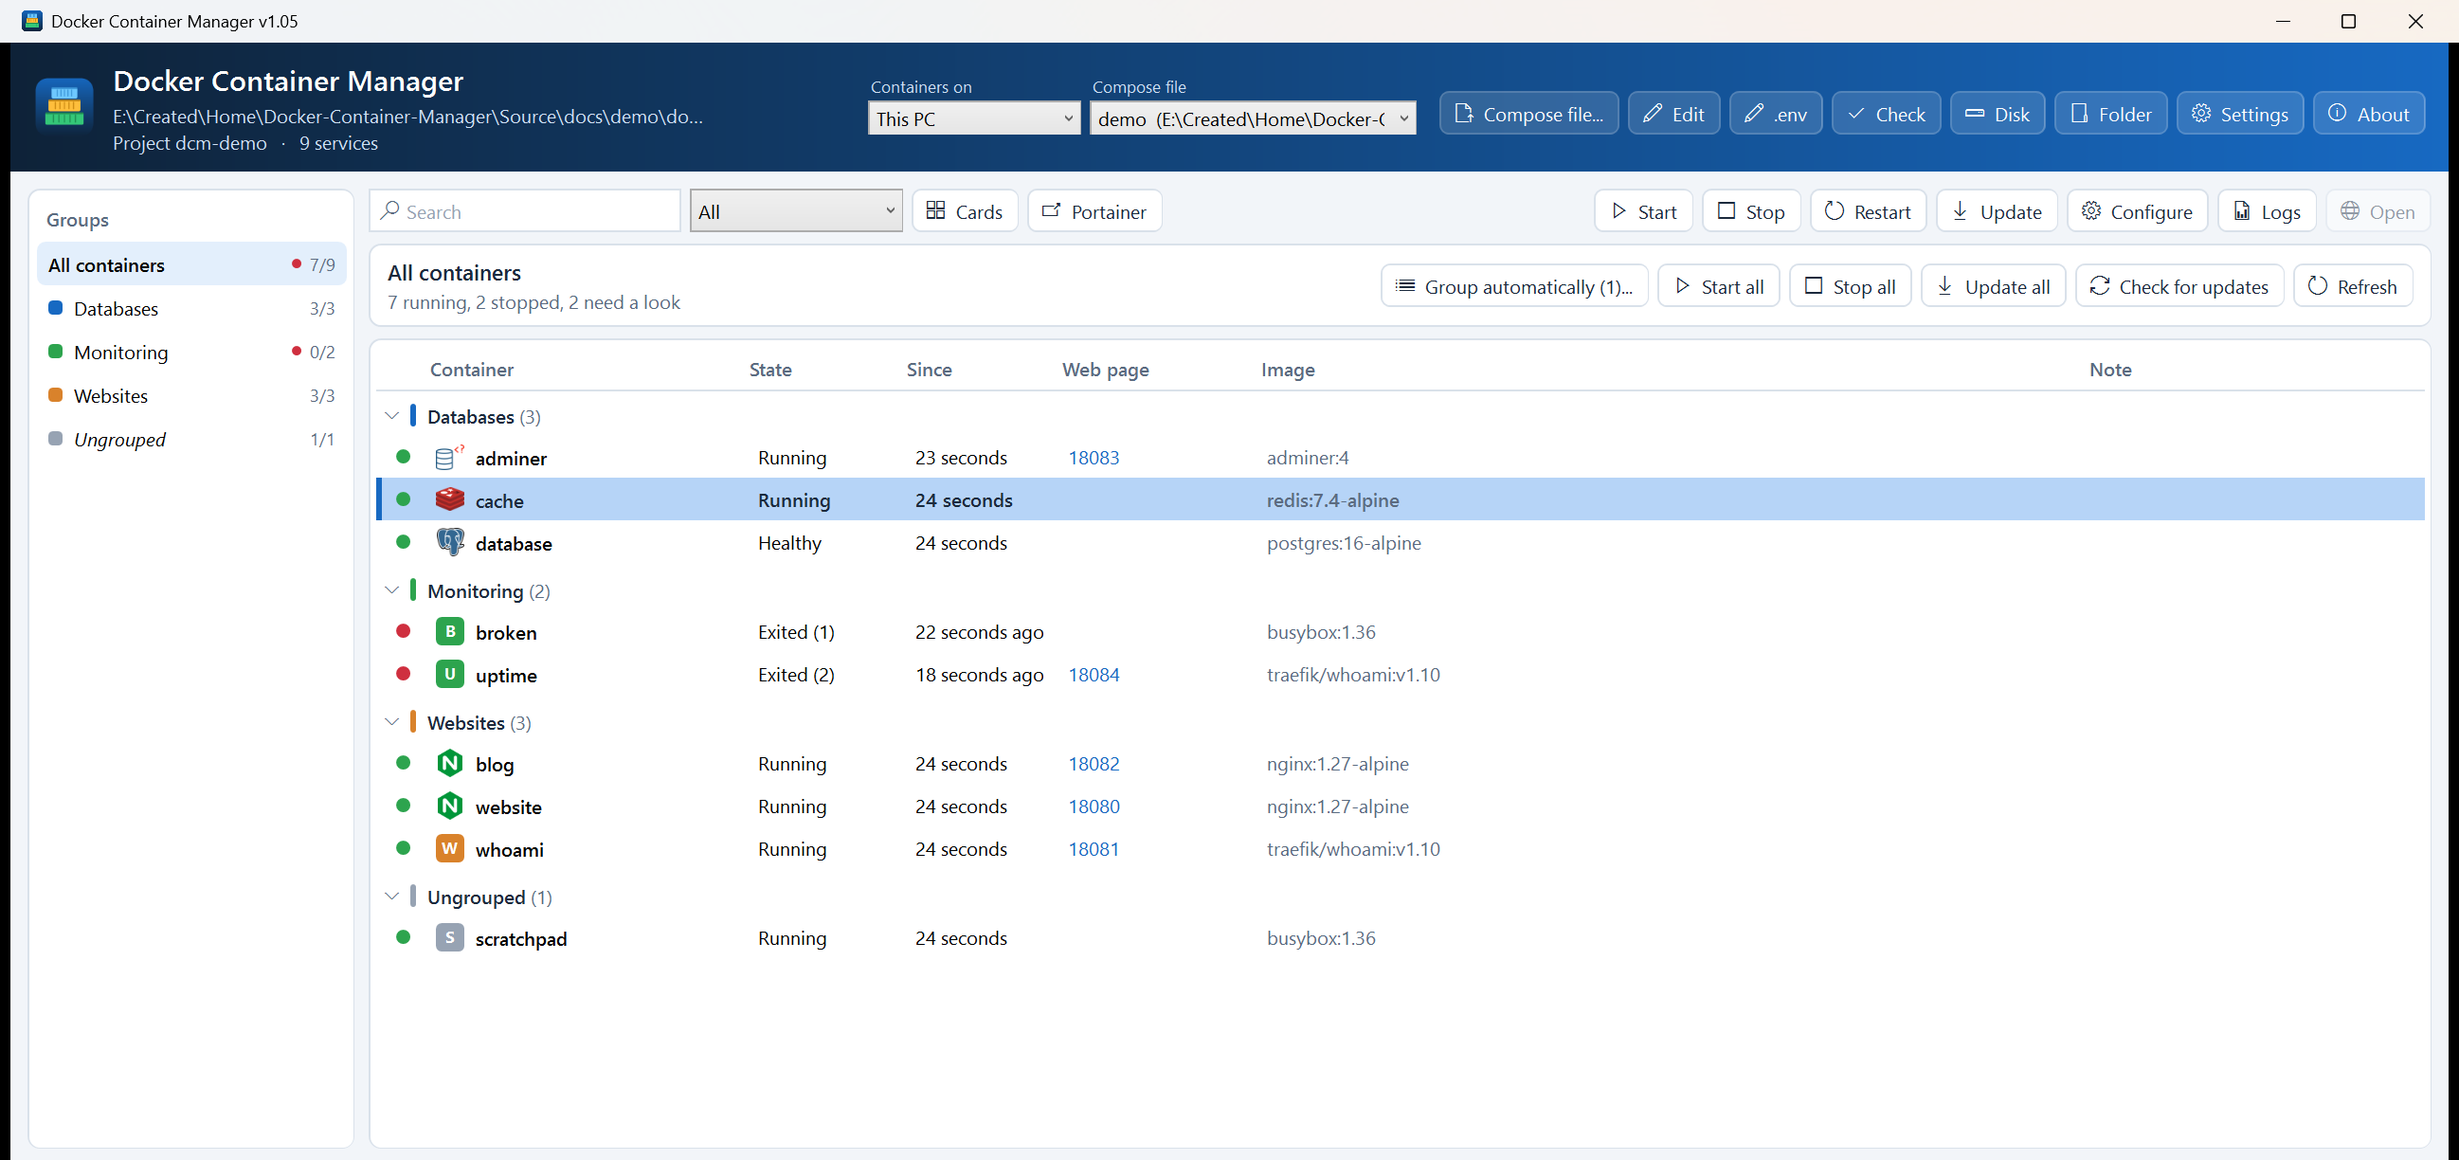
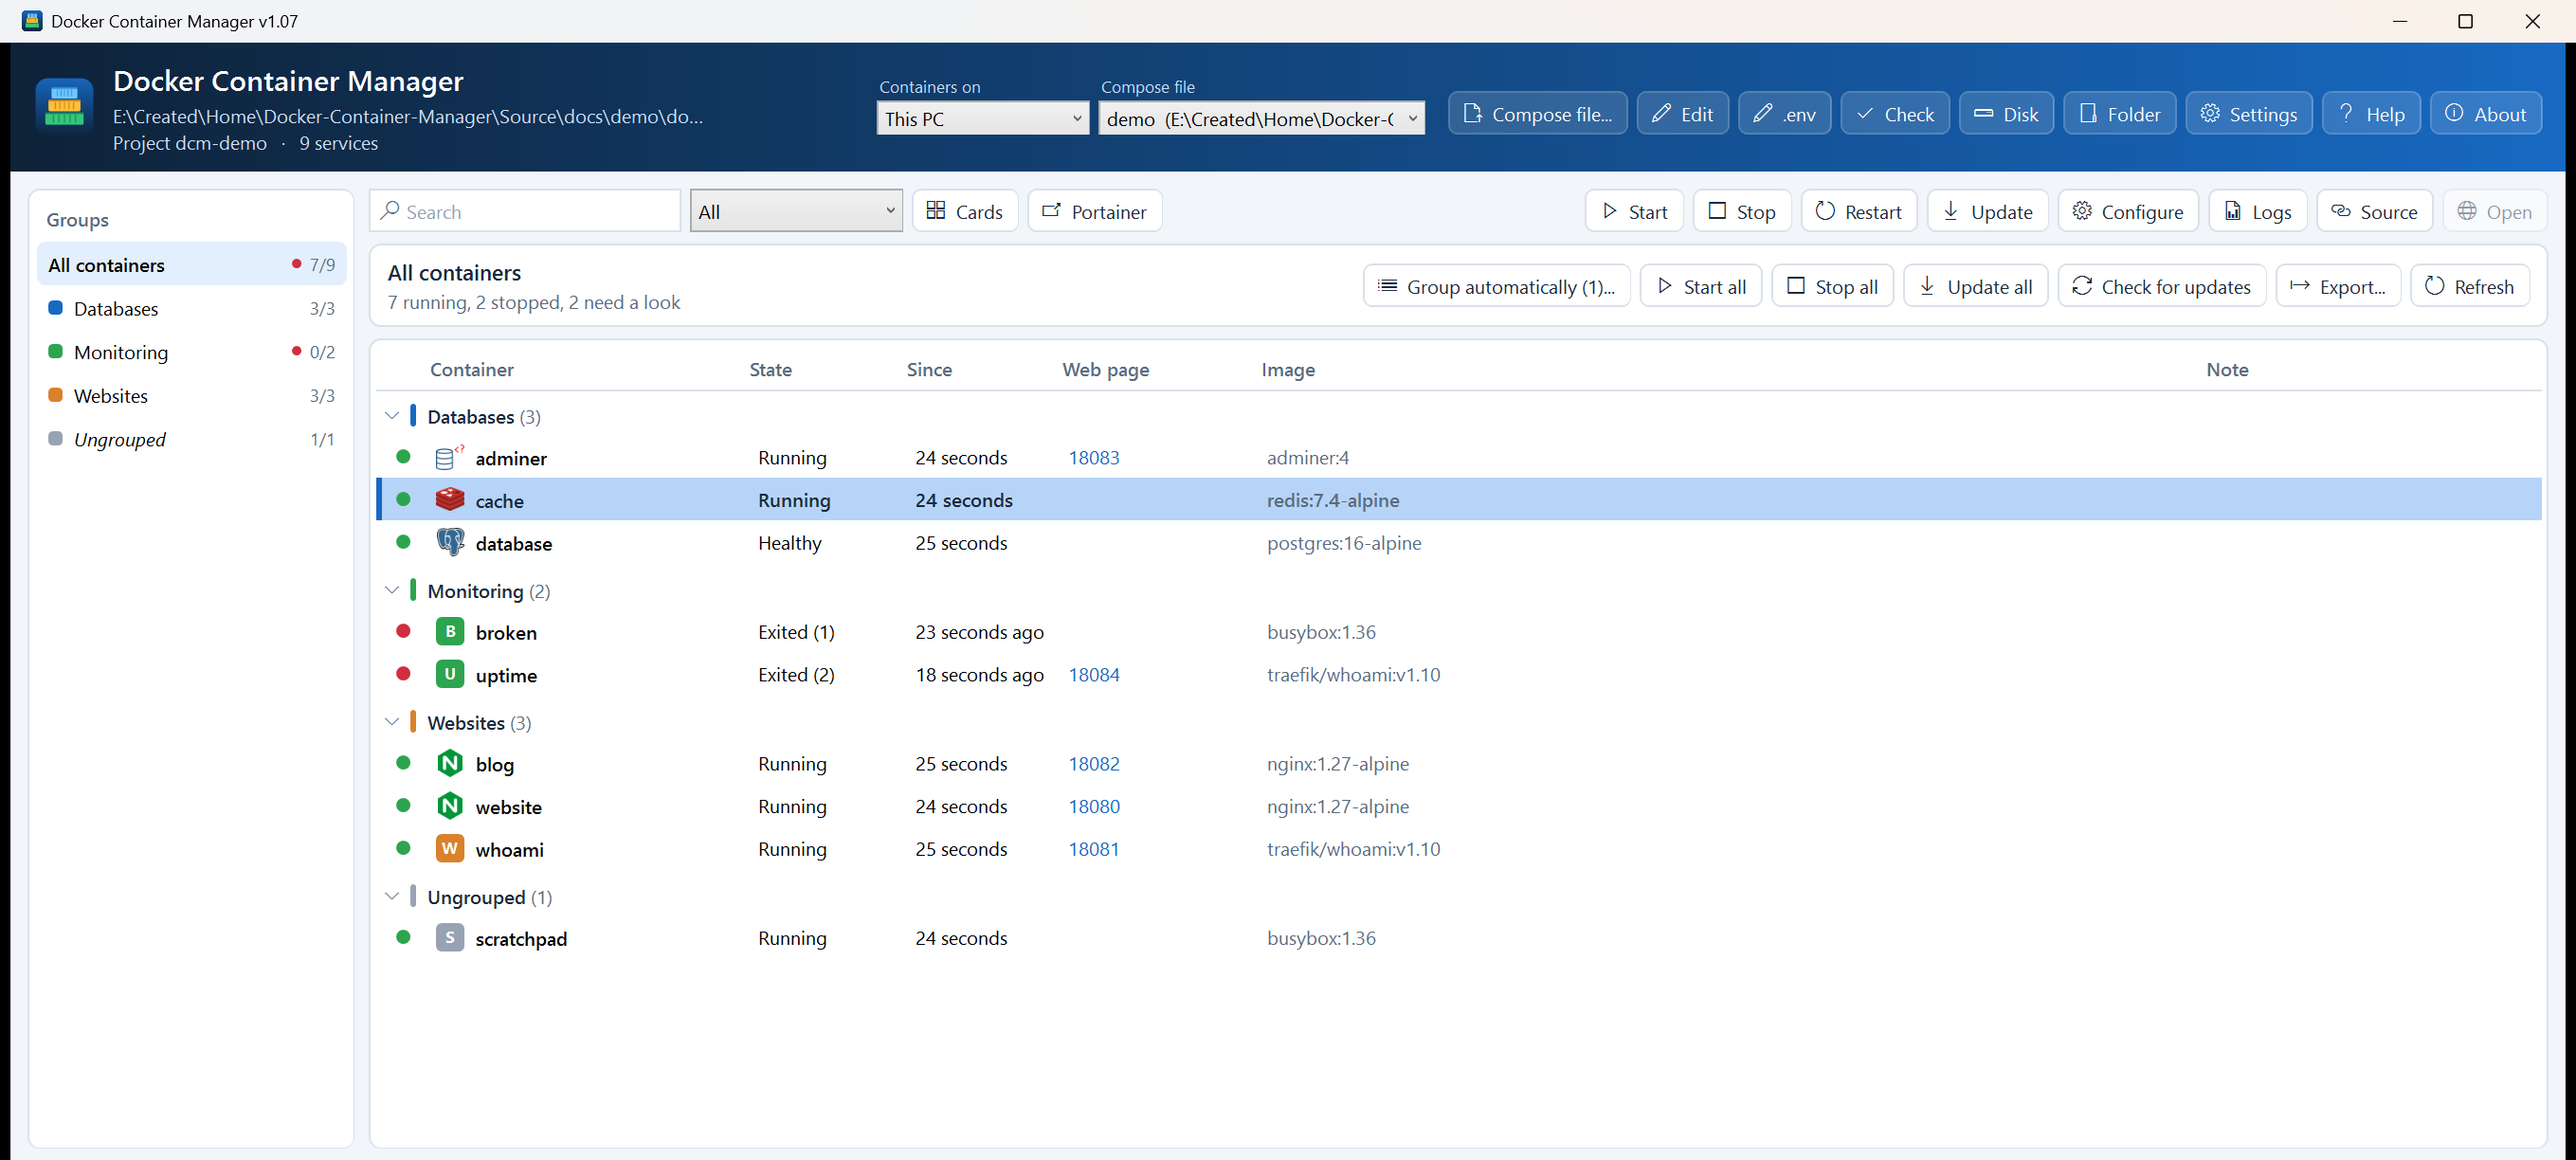
Docker Container Manager v1.07
Export: the Light / dark switch is bigger and sits in the blue header at the top right of the page, so it's easy to find. New README screenshot.

Claude-Session: https://claude.ai/code/session_01RoDiwpGkRVACg8CouXMf92

diff --git a/README.md b/README.md
@@ -6,7 +6,7 @@
 
 Run and organise the containers in your Docker Compose file, in groups, from one Windows window.
 
-![Version](https://img.shields.io/badge/version-v1.06-blue) ![Platform](https://img.shields.io/badge/platform-Windows-0078D6) ![PowerShell](https://img.shields.io/badge/PowerShell-5.1%20%7C%207-5391FE) ![Licence](https://img.shields.io/badge/licence-MIT-green) ![Last commit](https://img.shields.io/github/last-commit/jason4bury/Docker-Container-Manager)
+![Version](https://img.shields.io/badge/version-v1.07-blue) ![Platform](https://img.shields.io/badge/platform-Windows-0078D6) ![PowerShell](https://img.shields.io/badge/PowerShell-5.1%20%7C%207-5391FE) ![Licence](https://img.shields.io/badge/licence-MIT-green) ![Last commit](https://img.shields.io/github/last-commit/jason4bury/Docker-Container-Manager)
 
 ## ✨ Features
 
@@ -55,7 +55,7 @@ The screenshot uses the demo project in [`docs/demo/`](docs/demo/docker-compose.
 
 ## 📦 Installation
 
-**Exe:** download `Docker Container Manager v1.06.exe` from the [latest release](../../releases/latest) and run it. Put it in `Home\Docker-Container-Manager\Builds\` and the Home Launcher lists it under Windows.
+**Exe:** download `Docker Container Manager v1.07.exe` from the [latest release](../../releases/latest) and run it. Put it in `Home\Docker-Container-Manager\Builds\` and the Home Launcher lists it under Windows.
 
 **Script:** clone this repo and run `Start Docker Container Manager.cmd`. It starts `src\Docker-Container-Manager.ps1` with the execution policy bypassed for that run only.
 

diff --git a/CHANGELOG.md b/CHANGELOG.md
@@ -6,6 +6,12 @@ All notable changes to this project are documented here. The format follows
 
 ## [Unreleased]
 
+## [1.07] - 2026-11-13
+
+### Fixed
+- Export: the **Light / dark** switch was small and hard to see above the header. It's now bigger and sits in the
+  blue header at the top right of the page.
+
 ## [1.06] - 2026-11-13
 
 ### Added
